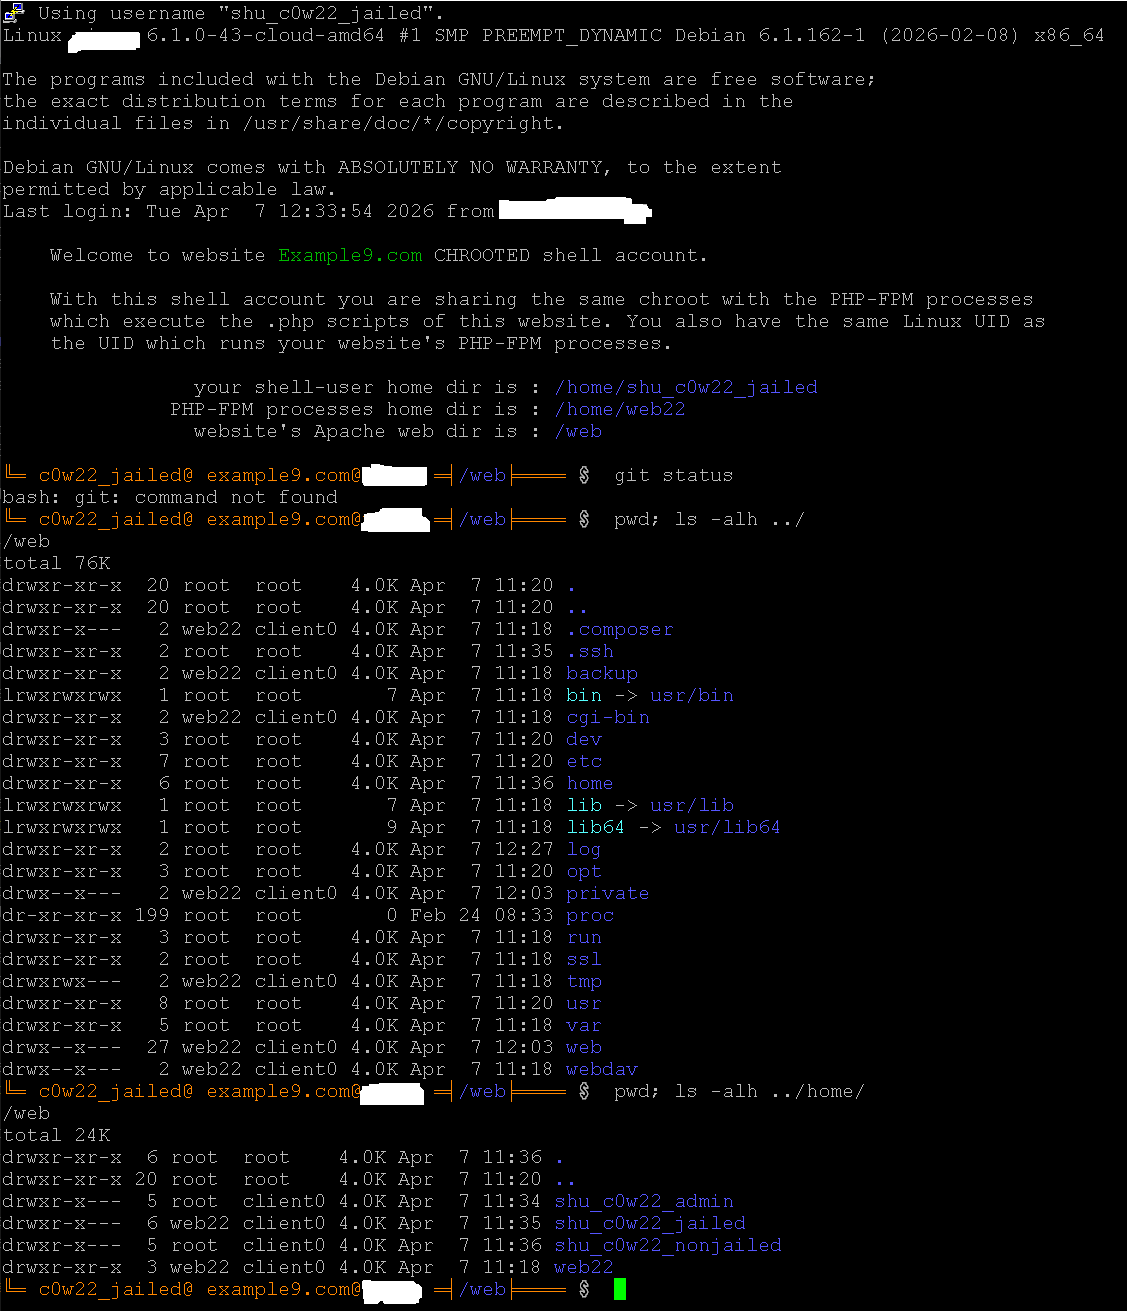
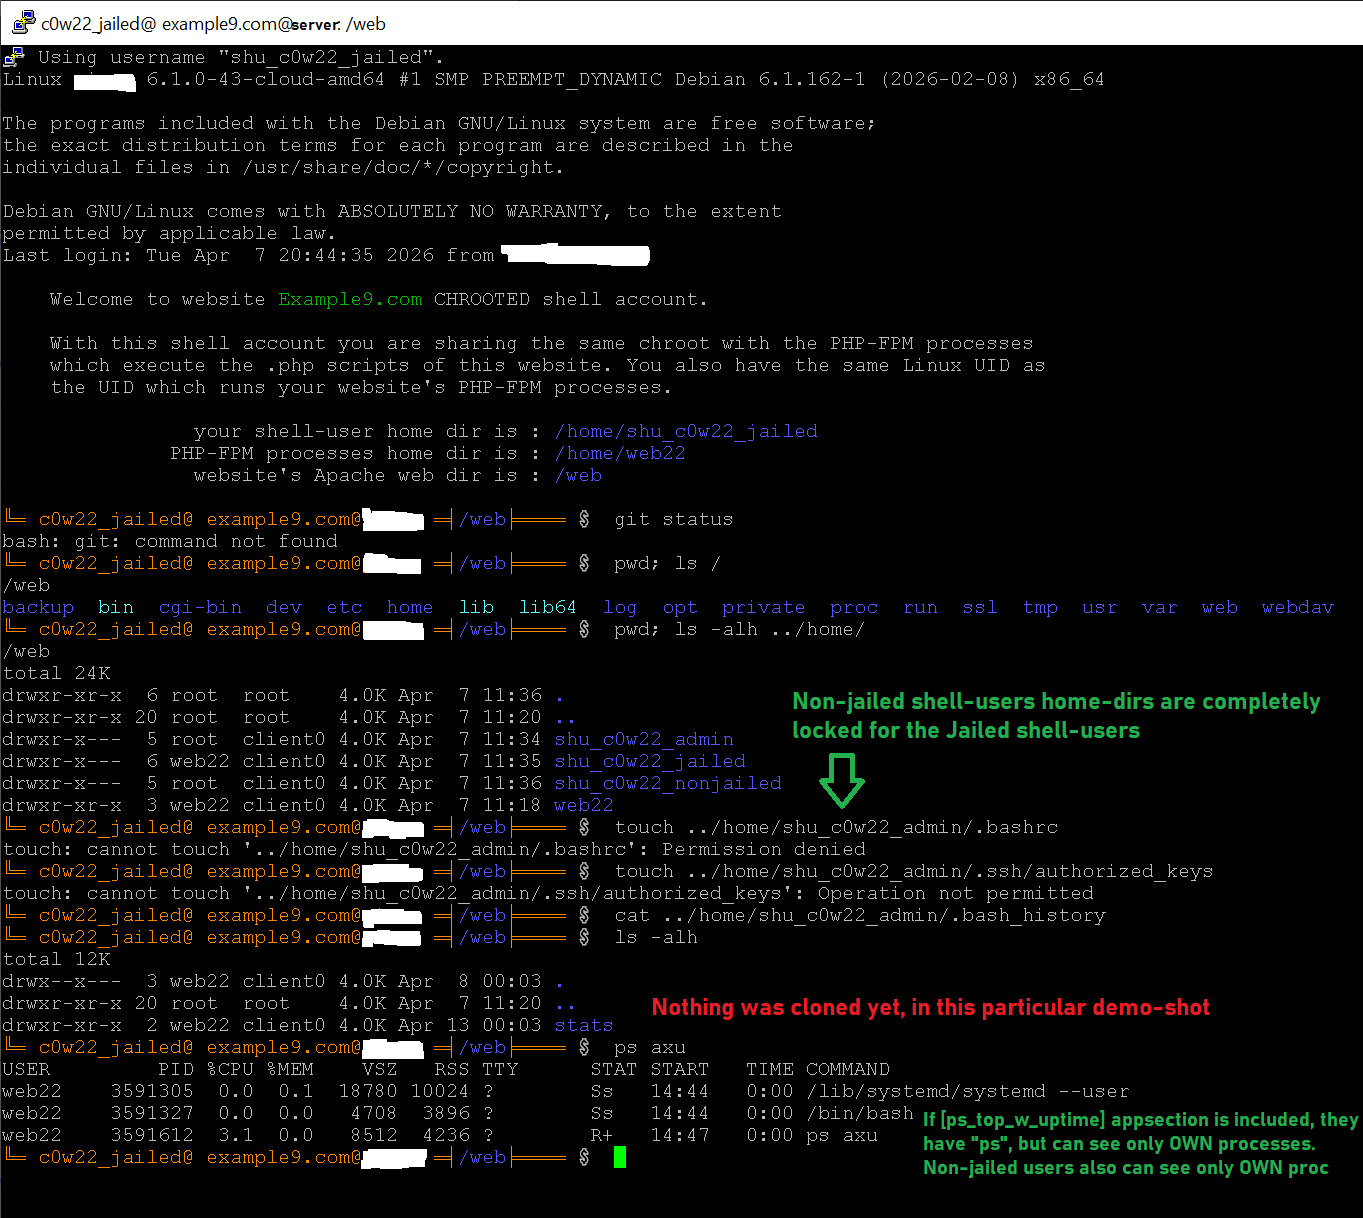
Modify the README, forgotten features

Changed region(s): [[0.0, 0.0, 1.0, 0.9984]]

diff --git a/README.md b/README.md
@@ -19,9 +19,10 @@ Welcome to the **ISPConfig Advanced Jailkit Tools**, a comprehensive extension d
 1. **Scenario-Based Shell Users:** Intelligently provisions environments based on the username suffix (e.g., Jailed, Admin Non-Jailed, Standard).
 2. **The Secure "Vault":** Admin users get a secure directory (`webX___username`) *outside* the PHP-FPM chroot to store sensitive data, SSH keys, and Git metadata, protecting them even if the website is compromised.
 3. **Detached Git Tracking:** Clone and track your website (`web/`) securely using a detached Git worktree managed from the Vault.
-4. **Context-Aware Terminal:** Custom bash prompts that dynamically display your active Git branch (in cyan) *only* when you are inside the `/web` directory.
-5. **Background Sessions (`dtach`):** Run persistent background programs in your jails using custom, secure wrapper commands.
-6. **Smart Identity & Environment Context:** Automatically extracts your website domain, client email, and contact details from the ISPConfig database to personalize your terminal prompts and pre-configure your Git authorship without manual setup.
+4. **Context-Aware Colored Terminal:** Injects a custom, highly visible bash prompt (e.g., `╚═ user@ domain.com@server ═╡/web╞════ 💲`) that automatically updates your terminal window title to match your environment. It also dynamically displays your active Git branch (in cyan) *only* when you are inside the `/web` directory.
+5. **Strict Internal Directory Isolation:** Non-jailed users' home directories (which physically reside inside the jail path) are strictly locked down. Jailed users and PHP-FPM processes receive "Permission denied" errors and cannot read, write, or traverse into the `.bash_history`, SSH keys, or config files of the higher-privileged accounts.
+6. **Background Sessions (`dtach`):** Run persistent background programs in your jails using custom, secure wrapper commands.
+7. **Smart Identity & Environment Context:** Automatically extracts your website domain, client email, and contact details from the ISPConfig database to personalize your terminal prompts and pre-configure your Git authorship without manual setup.
 
 ## 🚀 Installation (Drop-In Replacement)
 
